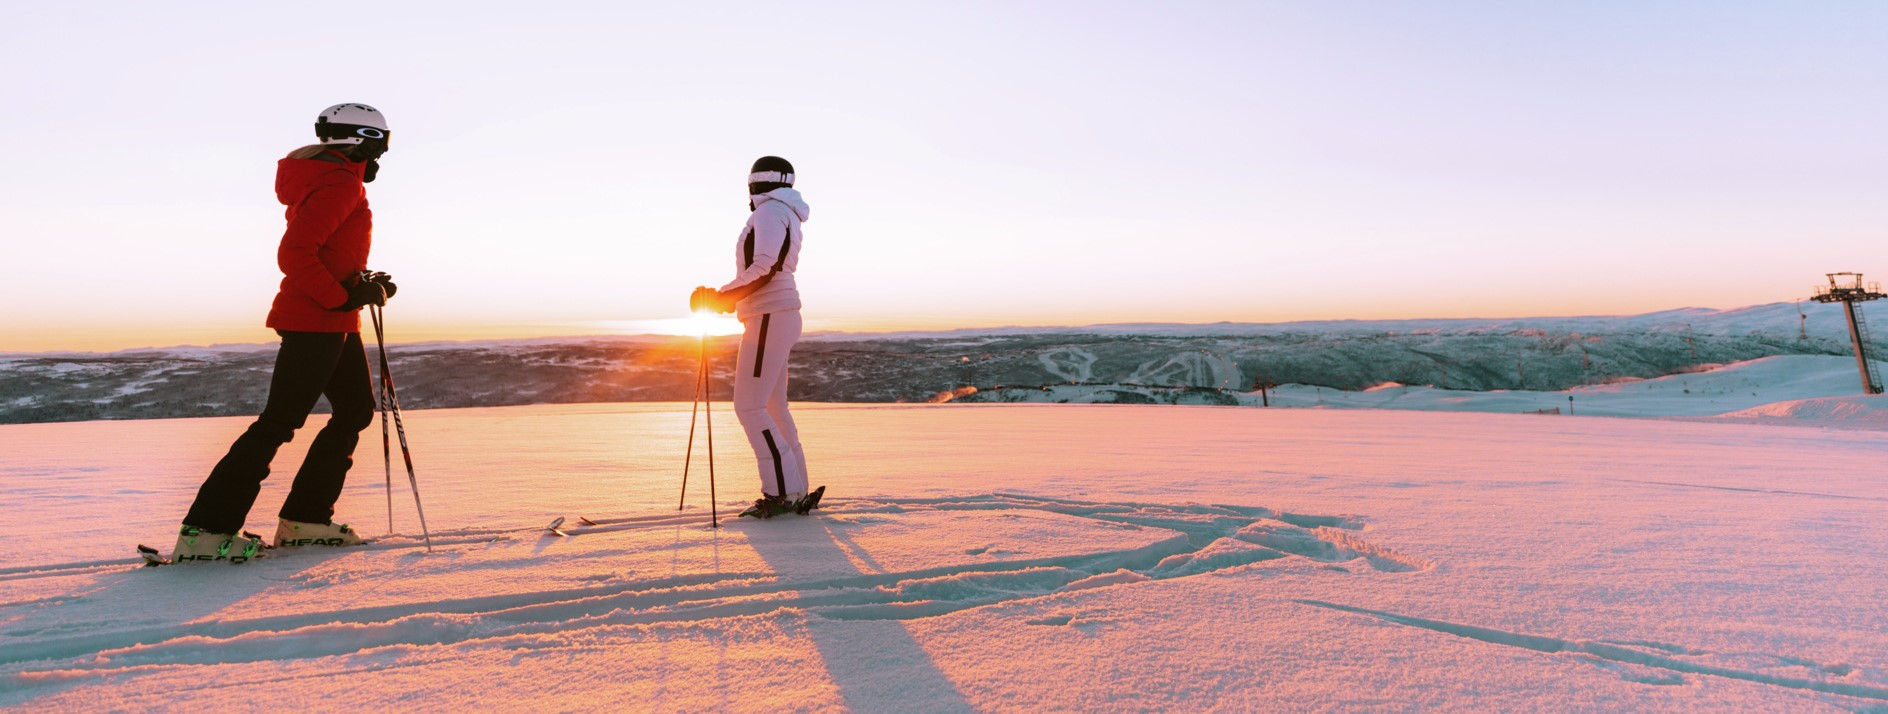
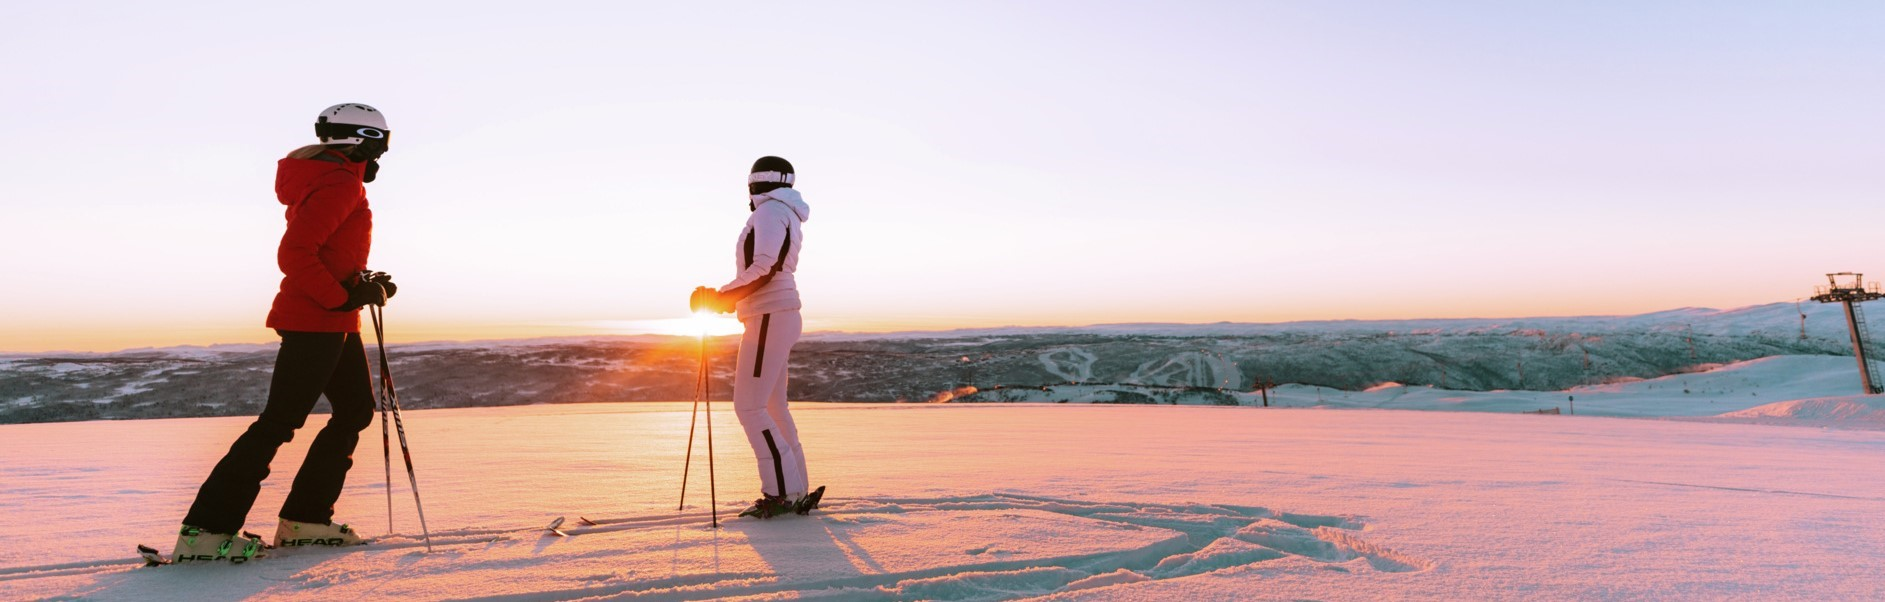
Changes

diff --git a/frontend/frontend/views/SkiLessons.html b/frontend/frontend/views/SkiLessons.html
@@ -36,7 +36,7 @@
   </nav>
 
   <!-- Hero Section -->
-  <section class="hero-section text-white text-center position-relative" style="background: url('../images/SkiLessons2.jpg') center/cover no-repeat; padding: 120px 0;">
+  <section class="hero-section text-white text-center position-relative" style="background: url('../images/SkiLessons2.jpg') center/cover no-repeat; padding: 90px 0;">
     <div style="position:absolute; top:0; left:0; right:0; bottom:0; background: rgba(0,0,0,0.5); z-index:1;"></div>
     <div class="container position-relative" style="z-index:2;">
       <h1 class="display-4 fw-bold">Learn to Ski with the Best</h1>

diff --git a/frontend/frontend/views/FamilyFun.html b/frontend/frontend/views/FamilyFun.html
@@ -83,13 +83,7 @@
     </div>
   </nav>
 
-  <!-- Hero Section -->
-  <section class="hero-family">
-    <div class="container">
-      <h1 class="display-4 fw-bold">Unforgettable Fun for the Whole Family</h1>
-      <p class="lead">From ski schools to snow tubing, discover the joy of winter together.</p>
-    </div>
-  </section>
+ 
 
   <!-- Activities -->
   <section class="container my-5">
